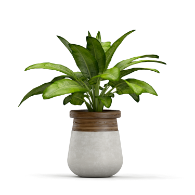
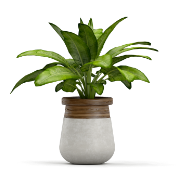
リストビューに画像表示

Changed region(s): [[0.0565, 0.0847, 0.904, 0.9605]]

diff --git a/lib/main.dart b/lib/main.dart
@@ -324,9 +324,15 @@ class _PlantList extends StatelessWidget {
             child: ListView(
               scrollDirection: Axis.horizontal,
               children: [
-                _PlantListTile(),
-                _PlantListTile(),
-                _PlantListTile(),
+                _PlantListTile(
+                  plantImage: Image.asset('images/plant1.png'),
+                ),
+                _PlantListTile(
+                  plantImage: Image.asset('images/plant2.png'),
+                ),
+                _PlantListTile(
+                  plantImage: Image.asset('images/plant1.png'),
+                ),
               ],
             ),
           ),
@@ -337,11 +343,20 @@ class _PlantList extends StatelessWidget {
 }
 
 class _PlantListTile extends StatelessWidget {
+  final Image plantImage;
+
+  const _PlantListTile({
+    Key key,
+    this.plantImage,
+  }) : super(key: key);
+
   @override
   Widget build(BuildContext context) {
+    final double tileWidth = 165;
+
     return Container(
       height: 238,
-      width: 165,
+      width: tileWidth,
       child: Stack(
         children: [
           Align(
@@ -349,7 +364,10 @@ class _PlantListTile extends StatelessWidget {
             child: Container(
               height: 137.0,
               width: 131.0,
-              color: kColorGreen,
+              decoration: BoxDecoration(
+                color: kColorGreen,
+                borderRadius: BorderRadius.circular(7),
+              ),
             ),
           ),
           Align(
@@ -377,7 +395,11 @@ class _PlantListTile extends StatelessWidget {
                 ],
               ),
             ),
-          )
+          ),
+          Positioned(
+            top: 10,
+            child: this.plantImage,
+          ),
         ],
       ),
     );
